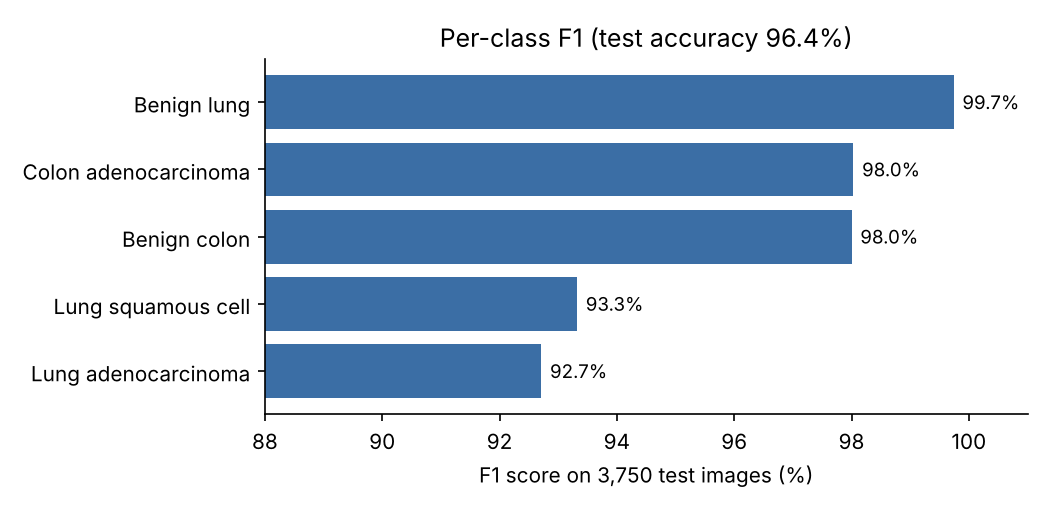
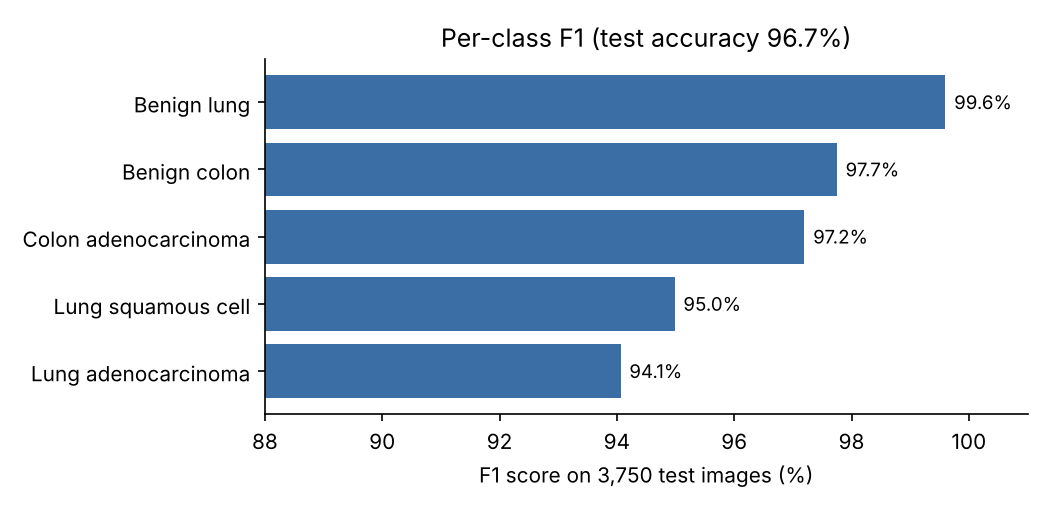
Add full retraining run: 96.72% test accuracy, confusion matrix and training curves
Claude-Session: https://claude.ai/code/session_01Jj494bqgWqX3jCLSyC2CC3

diff --git a/README.md b/README.md
@@ -2,7 +2,7 @@
 
 ![tests](https://github.com/Yassman04/lung-colon-cancer-classifier/actions/workflows/tests.yml/badge.svg)
 
-A convolutional neural network in **PyTorch** that classifies microscope images of lung and colon tissue into **five types**, three of them cancerous. It improves a 61.5% baseline to **96.4% test accuracy (96.4% macro F1)** on 3,750 held-out images.
+A convolutional neural network in **PyTorch** that classifies microscope images of lung and colon tissue into **five types**, three of them cancerous. It improves a 61.5% baseline to **96.7% test accuracy (96.7% macro F1)** on 3,750 held-out images.
 
 | Class | Meaning |
 |---|---|
@@ -21,15 +21,26 @@ Diagnosing cancer from histopathology slides is the gold standard, but it is slo
 | Model | Data | Test accuracy | Macro F1 |
 |---|---|---|---|
 | Baseline: 2 conv layers, SGD, 3 epochs | 1,000 images | 61.5% | – |
-| **Final: 3 conv layers, Adam, tuned** | **25,000 images** | **96.43%** | **96.36%** |
+| Tuned CNN, notebook version (random split, fixed 5 epochs) | 25,000 images | 96.43% | 96.36% |
+| **Tuned CNN, this package (stratified split, early stopping)** | **25,000 images** | **96.72%** | **96.72%** |
+
+The final row comes from running `python -m cancer_classifier.train --epochs 10` on a free Colab T4 GPU (about 15 minutes). The best model came from epoch 4. After that, validation loss started rising while training loss kept falling, which is the start of overfitting. Early stopping caught it and kept the epoch-4 weights.
 
 ![Per-class F1](results/per_class_f1.png)
 
-The benign tissue classes are close to perfect. The two hardest classes are **lung adenocarcinoma** and **lung squamous cell carcinoma**, the two lung cancers. They look similar under the microscope and are mostly confused with each other.
+![Confusion matrix](results/my_run/confusion_matrix.png)
 
-Full numbers are in [`results/test_metrics_full_dataset.json`](results/test_metrics_full_dataset.json).
+The confusion matrix shows **the model almost never mixes up the two organs**. No colon image was predicted as lung, and only 8 of 2,250 lung images were predicted as colon. Nearly all its mistakes are *within* an organ:
+- **Lung adenocarcinoma ↔ lung squamous cell carcinoma** (75 of 3,750 images). These two cancers look similar under the microscope and are the hardest classes (94.1% and 95.0% F1).
+- **Colon adenocarcinoma ↔ benign colon** (34 images).
 
-## How the model got from 61.5% to 96.4%
+Benign lung tissue is close to perfect (99.6% F1).
+
+![Training curves](results/my_run/training_curves.png)
+
+Full numbers: [`results/my_run/metrics.json`](results/my_run/metrics.json) (this run) and [`results/test_metrics_full_dataset.json`](results/test_metrics_full_dataset.json) (notebook version).
+
+## How the model got from 61.5% to 96.7%
 
 1. **More feature extraction.** Going from 2 to 3 conv layers (16 → 32 → 64 channels) lets the network learn patterns at several scales: texture, then clusters of cells, then tissue structure.
 2. **A stronger classifier head.** A hidden layer (16,384 → 128 → 5) combines the features before the final decision, which helps separate visually similar classes.
